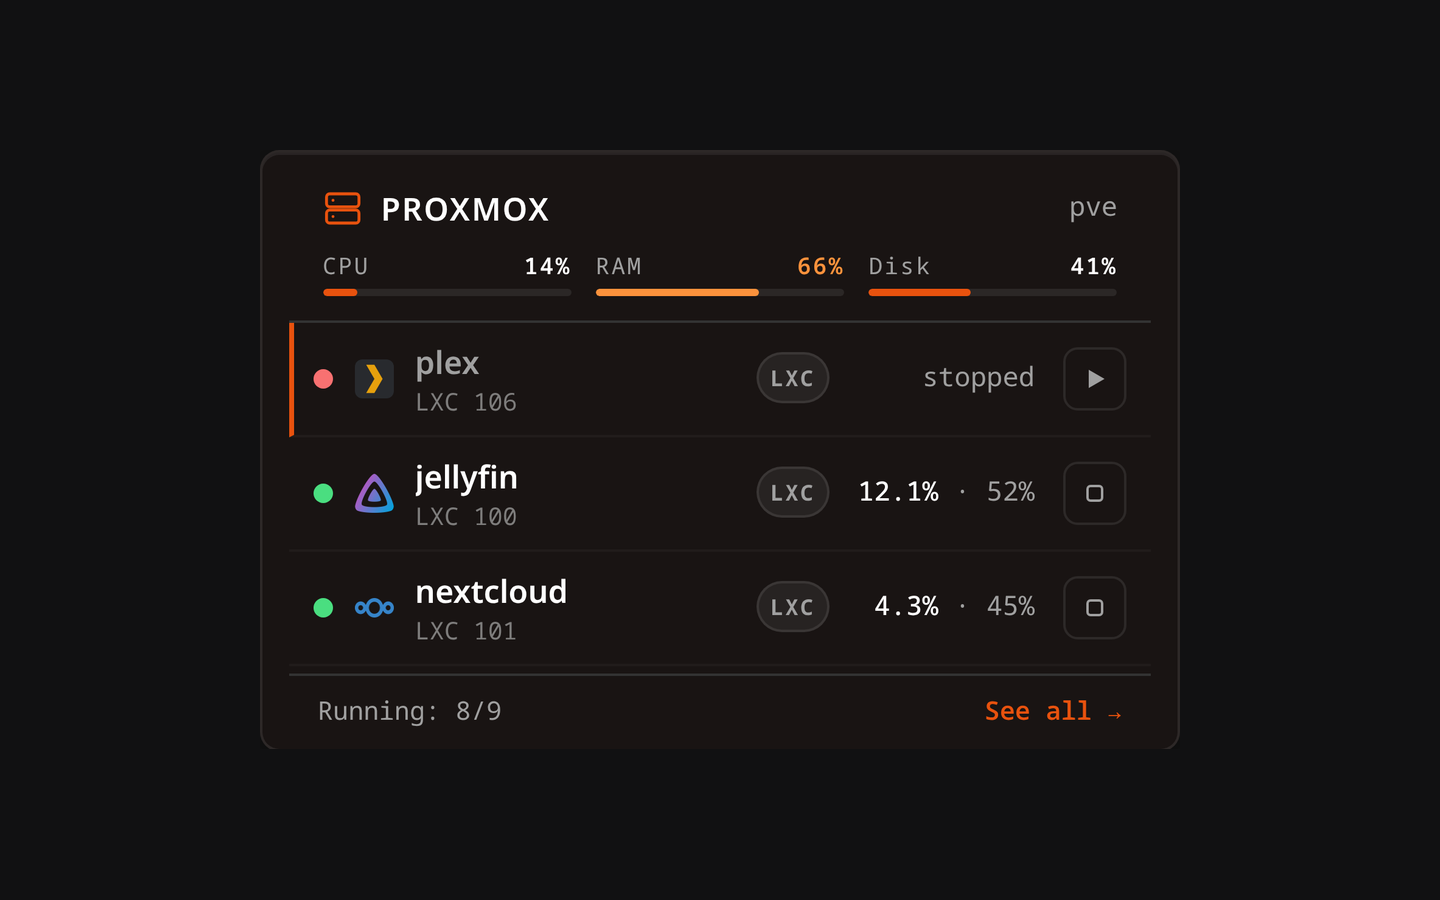
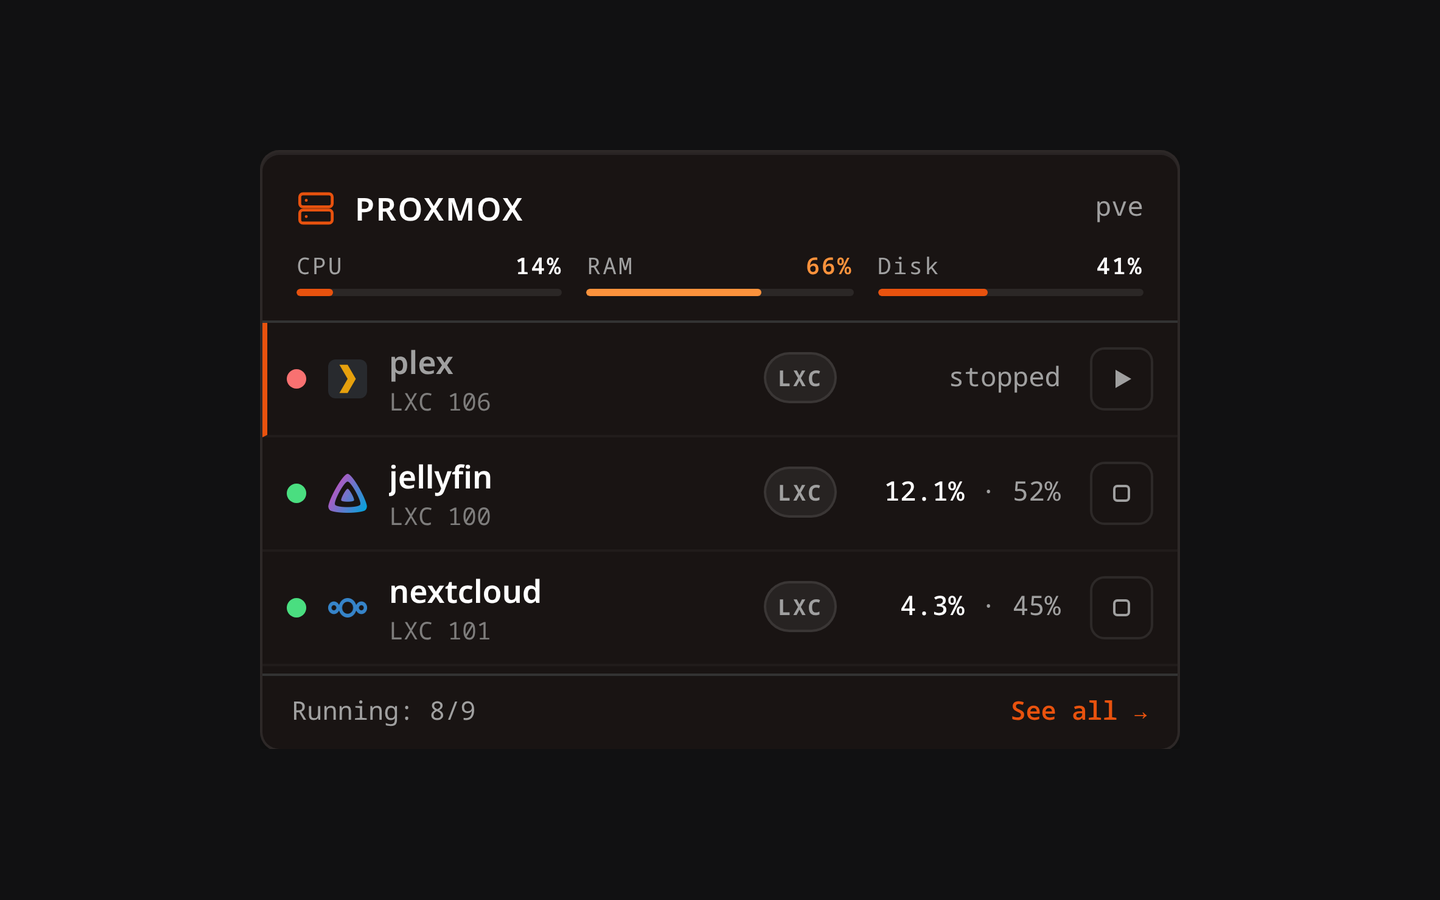
fix(proxmox): give the widget a width of its own, or it has none
A container query needs a container, and an element that declares inline-size
containment stops asking its contents how wide to be — so without a width the
tile collapsed to 0x245 and drew an empty card, while every row inside it was
correct in the DOM.

Found in the screenshot that went into the documentation, not in the probe that
read the DOM and reported eight healthy rows. The monitoring widget had the
width all along; this one was written without it.

diff --git a/web/src/widgets/core/ProxmoxWidget.ts b/web/src/widgets/core/ProxmoxWidget.ts
@@ -373,7 +373,12 @@ const CSS = `
     font-family: var(--font-sans);
     color: var(--text-main);
     /* The tile is whatever width the board gives it, and that is what the rows
-       below answer to — not the viewport, which says nothing about a tile. */
+       below answer to — not the viewport, which says nothing about a tile.
+       The explicit width is not decoration: inline-size containment means the
+       box stops asking its contents how wide to be, and without a width of its
+       own it collapses to zero — measured at 0x245, and photographed as an
+       empty card while the DOM inside it was perfectly correct. */
+    width: 100%;
     container-type: inline-size;
 }
 
